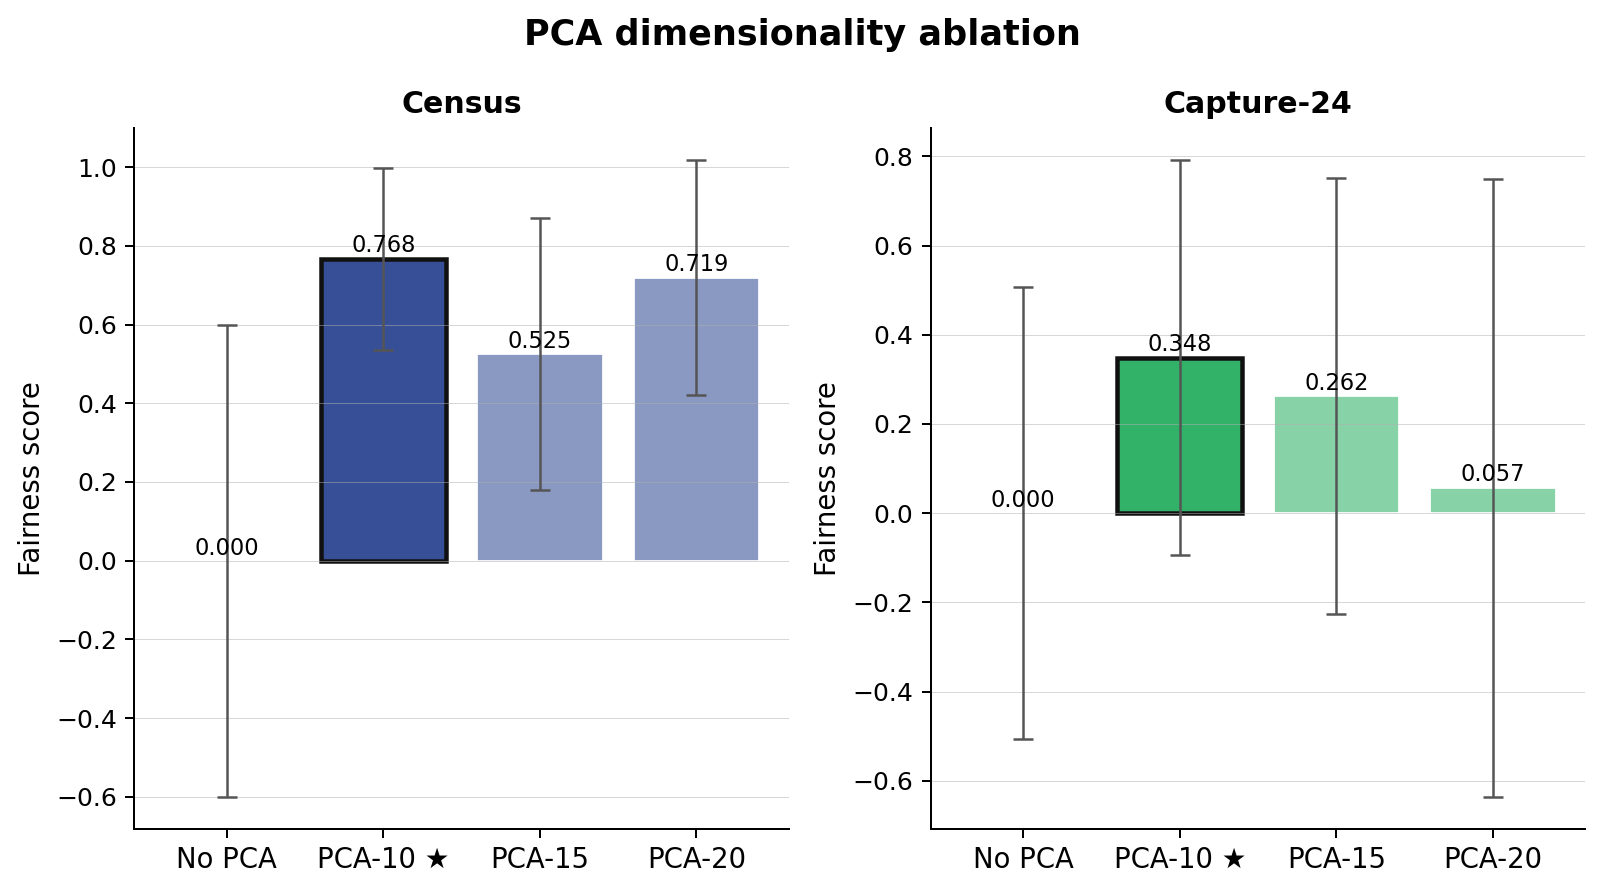
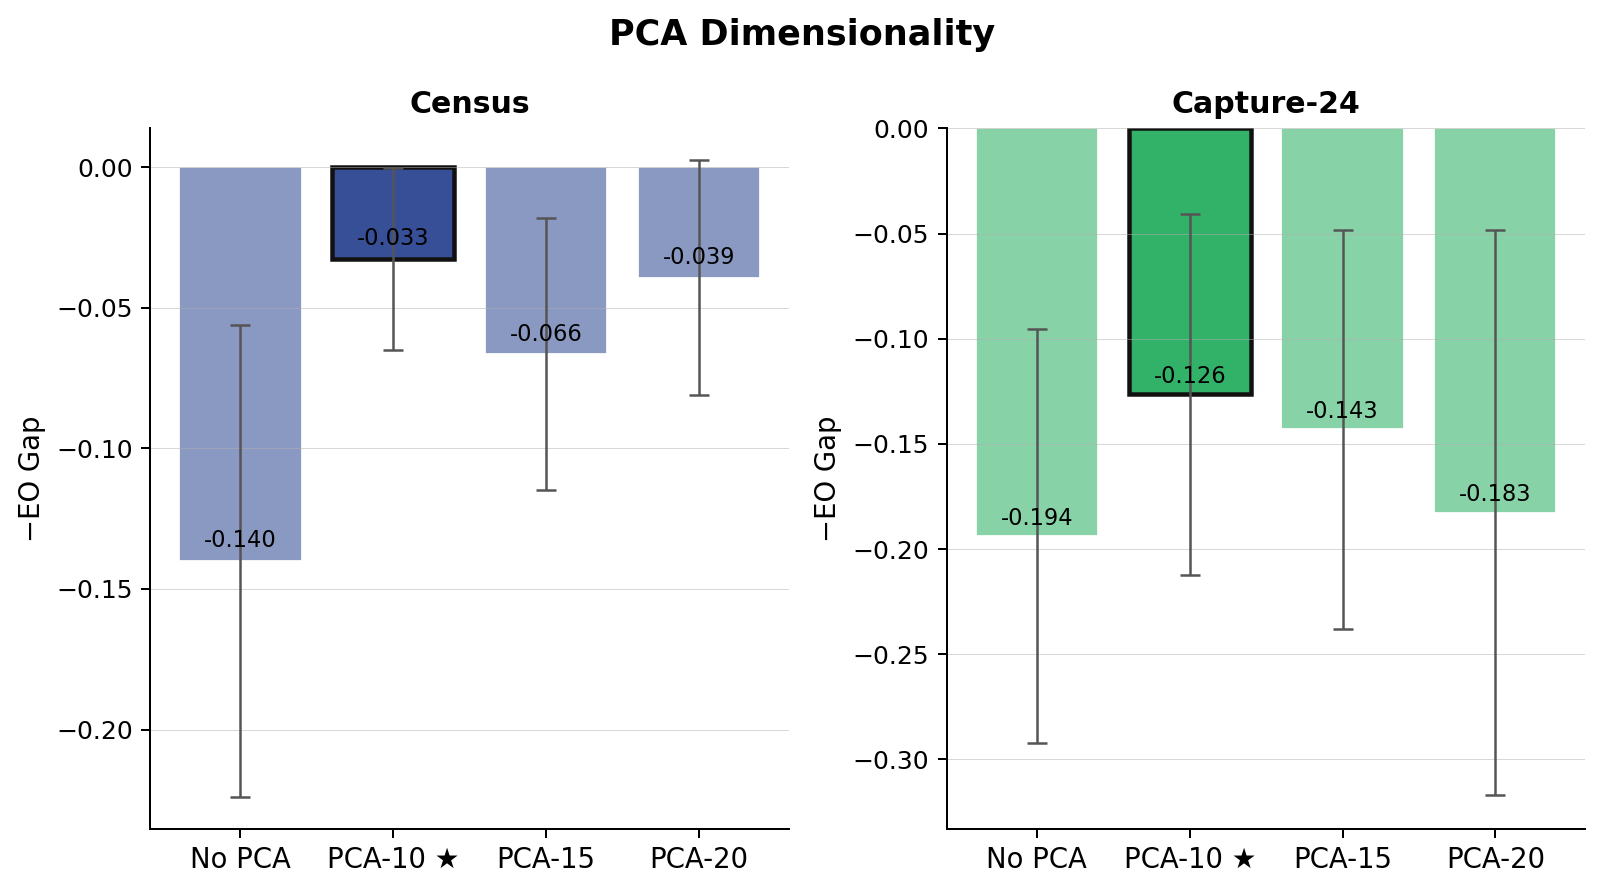
Revert ablation figures to −EO gap; capitalize titles, remove ablation wording

diff --git a/paper_figures_v3/generate_ablation_figures_v2.py b/paper_figures_v3/generate_ablation_figures_v2.py
@@ -118,13 +118,10 @@ def get_alpha_eo(df): return stats(df, "alpha_eod_max_diff")
 
 
 def transform_eo(means, stds):
-    """Convert EO gap to fairness score: x' = 1 - x/max(X). Higher is better."""
+    """Negate EO gap so higher bars indicate better fairness."""
     means = np.array([float(m) for m in means])
     stds  = np.array([float(s) for s in stds])
-    max_x = np.nanmax(means)
-    if max_x == 0:
-        return means.tolist(), stds.tolist()
-    return (1.0 - means / max_x).tolist(), (stds / max_x).tolist()
+    return (-means).tolist(), stds.tolist()
 
 
 def save_fig(name):
@@ -135,7 +132,7 @@ def save_fig(name):
 
 
 def make_bar_ax(ax, labels, means, stds, colors, hatches=None,
-                ylabel="Fairness score", title="", fontsize_labels=11,
+                ylabel="\u2212EO Gap", title="", fontsize_labels=11,
                 fontsize_ticks=10, fontsize_title=12):
     x = np.arange(len(labels))
     bars = ax.bar(x, means, yerr=stds, capsize=4,
@@ -217,7 +214,7 @@ def _make_ep_eo_fig(datasets, ncols, figsize, fname, show_compas_placeholder,
     fig, axes = plt.subplots(1, ncols, figsize=figsize)
     if ncols == 1:
         axes = [axes]
-    fig.suptitle("Episode budget ablation", fontsize=14, fontweight="bold")
+    fig.suptitle("Episode Budget", fontsize=14, fontweight="bold")
 
     ep_keys_use   = ep_keys_override   if ep_keys_override   is not None else EP_KEYS
     ep_chosen_use = ep_chosen_override if ep_chosen_override is not None else EP_CHOSEN
@@ -313,7 +310,7 @@ def _make_delta_fig(datasets, ncols, figsize, fname):
     fig, axes = plt.subplots(1, ncols, figsize=figsize)
     if ncols == 1:
         axes = [axes]
-    fig.suptitle("Delta scale ablation", fontsize=14, fontweight="bold")
+    fig.suptitle("Delta Scale", fontsize=14, fontweight="bold")
 
     for ci, ds in enumerate(datasets):
         seeds = EXPECTED_SEEDS[ds]
@@ -372,7 +369,7 @@ def _make_dvrl_fig(datasets, ncols, figsize, fname):
     fig, axes = plt.subplots(1, ncols, figsize=figsize)
     if ncols == 1:
         axes = [axes]
-    fig.suptitle("Global-only vs. local reward augmentation",
+    fig.suptitle("Global-Only vs. Local Reward Augmentation",
                  fontsize=14, fontweight="bold")
 
     for ci, ds in enumerate(datasets):
@@ -445,7 +442,7 @@ def _make_pca_fig(datasets, ncols, figsize, fname):
     fig, axes = plt.subplots(1, ncols, figsize=figsize)
     if ncols == 1:
         axes = [axes]
-    fig.suptitle("PCA dimensionality ablation", fontsize=14, fontweight="bold")
+    fig.suptitle("PCA Dimensionality", fontsize=14, fontweight="bold")
 
     for ci, ds in enumerate(datasets):
         seeds  = EXPECTED_SEEDS[ds]
@@ -516,7 +513,7 @@ def _make_ffnn_fig(datasets, ncols, figsize, fname):
     fig, axes = plt.subplots(1, ncols, figsize=figsize)
     if ncols == 1:
         axes = [axes]
-    fig.suptitle("Beta classifier training epochs ablation",
+    fig.suptitle("Beta Classifier Training Epochs",
                  fontsize=14, fontweight="bold")
 
     for ci, ds in enumerate(datasets):
